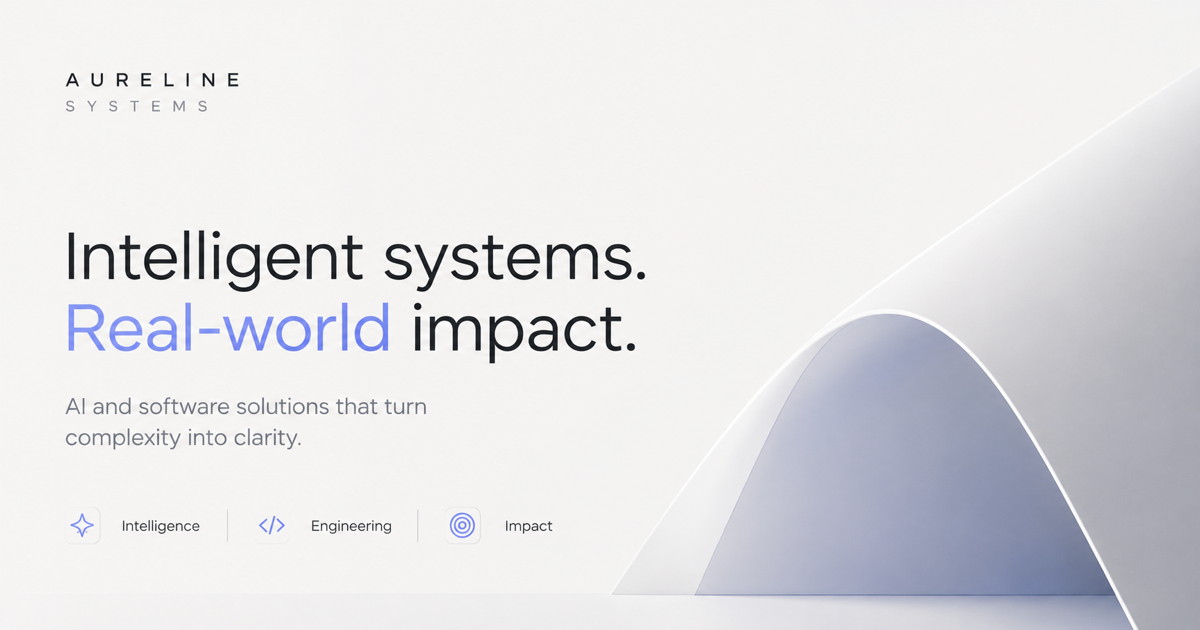
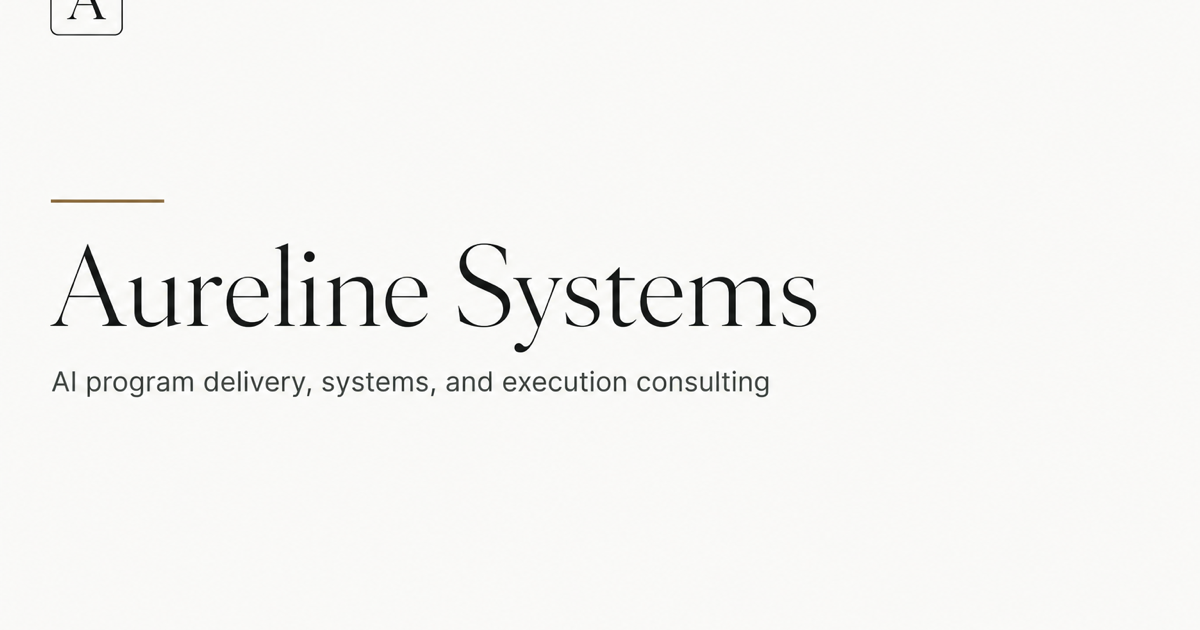
Tighten engagement details to single concise paragraphs; revert OG image to editorial design
- Collapse Problem / Action / Result trio into one tight paragraph per engagement
- Preserve SEO keywords (reinforcement learning, human-in-the-loop, SAP, LLM training, etc.) while removing visual fragmentation
- Remove unused .review__detail-body strong CSS rule
- Revert og-image.png to editorial serif design matching site aesthetic
- Revert og:image:alt and twitter:image:alt to match

diff --git a/website/index.html b/website/index.html
@@ -21,14 +21,14 @@
   <meta property="og:image" content="https://aurelinesystems.com/og-image.png" />
   <meta property="og:image:width" content="1200" />
   <meta property="og:image:height" content="630" />
-  <meta property="og:image:alt" content="Aureline Systems. Intelligent systems. Real-world impact. AI and software solutions that turn complexity into clarity." />
+  <meta property="og:image:alt" content="Aureline Systems. AI program delivery, systems, and execution consulting." />
 
   <!-- Twitter -->
   <meta name="twitter:card" content="summary_large_image" />
   <meta name="twitter:title" content="AI Program Delivery &amp; Technical Consulting | Aureline Systems" />
   <meta name="twitter:description" content="Consulting for frontier AI, life sciences, and enterprise teams shipping complex programs." />
   <meta name="twitter:image" content="https://aurelinesystems.com/og-image.png" />
-  <meta name="twitter:image:alt" content="Aureline Systems. Intelligent systems. Real-world impact. AI and software solutions that turn complexity into clarity." />
+  <meta name="twitter:image:alt" content="Aureline Systems. AI program delivery, systems, and execution consulting." />
 
   <link rel="preconnect" href="https://fonts.googleapis.com" />
   <link rel="preconnect" href="https://fonts.gstatic.com" crossorigin />
@@ -277,9 +277,7 @@
             <details class="review__details">
               <summary>Engagement detail</summary>
               <div class="review__detail-body">
-                <p><strong>Problem</strong>Scaling 30+ compute-backed reinforcement learning training environments and human-data operations across globally distributed teams, with research and engineering leadership lacking real-time visibility into delivery, quality, and risk.</p>
-                <p><strong>Action</strong>Established the delivery operating model and program standards for 30+ RL training workstreams across 15+ engineering teams. Designed human-data operations for 100+ AI trainers and evaluators globally. Built AI-assisted automation pipelines synthesizing meeting and engineering signals into real-time delivery, quality, and risk visibility.</p>
-                <p><strong>Result</strong>30+ training environments delivered concurrently with consistent quality standards. Delivery framework adopted across the organization. Leadership reporting now runs in real time, replacing manual status compilation.</p>
+                <p>Established the delivery operating model and program standards for 30+ compute-backed reinforcement learning training environments across 15+ globally distributed engineering teams. Designed human-data operations for 100+ AI trainers and evaluators globally, and built AI-assisted automation pipelines that replaced manual status compilation with real-time delivery, quality, and risk visibility for leadership.</p>
               </div>
             </details>
           </li>
@@ -294,9 +292,7 @@
             <details class="review__details">
               <summary>Engagement detail</summary>
               <div class="review__detail-body">
-                <p><strong>Problem</strong>Cross-platform financial reconciliation across SAP and adjacent enterprise systems was manual, error-prone, and slow to surface discrepancies for finance, IT, and audit stakeholders.</p>
-                <p><strong>Action</strong>Designed an AI-driven reconciliation capability across SAP and adjacent finance platforms. Coordinated engineering, finance, and audit stakeholders through requirements, design, validation, and rollout. Defined the operating model and program standards for ongoing AI-assisted finance automation.</p>
-                <p><strong>Result</strong>AI-driven reconciliation now runs across SAP in real time, replacing significant manual effort. Stakeholders operate against a shared operating model. Audit readiness and data integrity preserved throughout.</p>
+                <p>Designed an AI-driven reconciliation capability across SAP and adjacent enterprise finance platforms at a global pharmaceutical company, coordinating engineering, finance, and audit stakeholders through requirements, design, validation, and rollout. Replaced manual transaction matching with real-time AI-assisted reconciliation, with audit readiness and data integrity preserved throughout.</p>
               </div>
             </details>
           </li>
@@ -311,9 +307,7 @@
             <details class="review__details">
               <summary>Engagement detail</summary>
               <div class="review__detail-body">
-                <p><strong>Problem</strong>Scaling LLM-adjacent and multi-modal model training data delivery across concurrent ML initiatives, balancing quality, throughput, cost, and data integrity under research-driven timelines.</p>
-                <p><strong>Action</strong>Owned end-to-end AI program execution from pilot through scaled production data delivery. Designed human-in-the-loop annotation, evaluation, and calibration workflows. Led globally distributed delivery teams and built repeatable operational frameworks.</p>
-                <p><strong>Result</strong>Concurrent ML training and evaluation initiatives delivered from pilot through production scale. Repeatable operational frameworks accelerated discovery, solution design, and onboarding across engagements.</p>
+                <p>Owned end-to-end AI program execution from pilot through production-scale data delivery for a Big Tech ML organization, designing human-in-the-loop annotation, evaluation, and calibration workflows for LLM-adjacent and multi-modal model training. Led globally distributed delivery teams across concurrent ML initiatives and built repeatable operational frameworks that accelerated discovery, solution design, and onboarding.</p>
               </div>
             </details>
           </li>

diff --git a/website/styles.css b/website/styles.css
@@ -343,15 +343,6 @@ textarea:focus-visible {
   line-height: 1.55;
 }
 .review__detail-body p { margin: 0; }
-.review__detail-body strong {
-  display: block;
-  font-weight: 500;
-  color: var(--mute);
-  letter-spacing: 0.12em;
-  font-size: 10.5px;
-  text-transform: uppercase;
-  margin-bottom: 4px;
-}
 
 /* ---------- Contact ---------- */
 .contact {